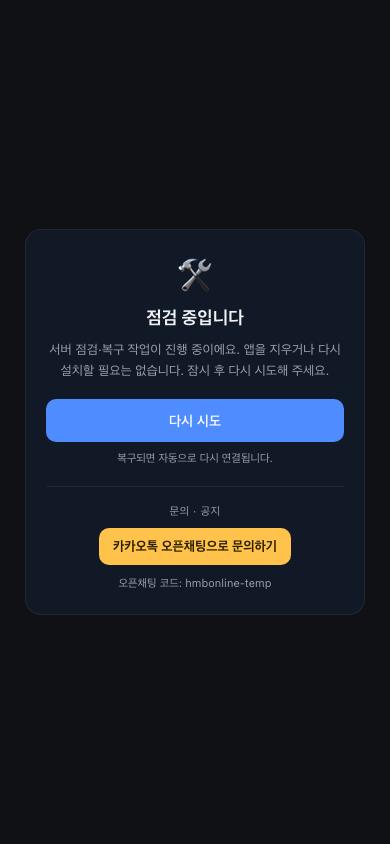
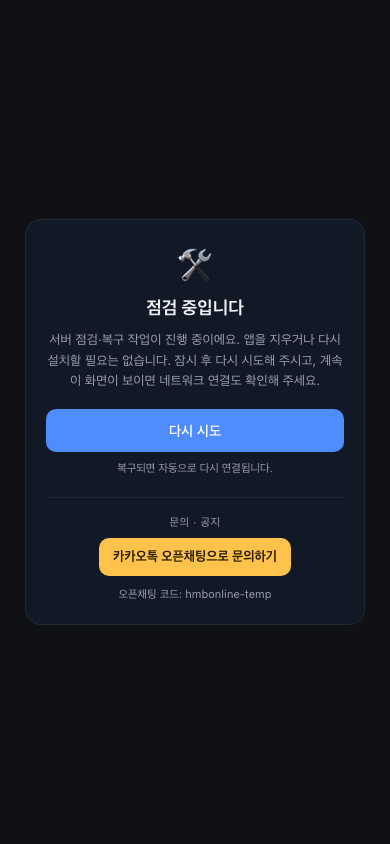
[Spider] test(477): 2R — 패널 반박 수습 (로그인 후 경로 · raw 변이체 로그 · 캡처 DOM 단언)
AC4 스켑틱 패널 1회차 FAIL(2/3). 세 반박 중 둘을 받고, 하나는 반증하되 재발을 막는 쪽으로 고쳤다.

- S2(edge_case, 타당): e2e 5건이 전부 /login 이었다 — 게이트가 라우터 바깥이라 "구조상 같다"고
  주장할 수는 있어도 검정한 것은 아니다. 로그인 후 경로(/home)에서 죽는 케이스를 추가했다.
  프로브가 단일 카나리아인 것은 결함이 아니라 설계(부분 장애에 앱 전체를 덮지 않는다) —
  그 근거를 client.ts 주석에 남겼다.
- S3 ①(evidence_integrity, 타당): 변이체 킬 로그가 손으로 쓴 요약이었다 → raw 출력으로 교체.
  이제 4 failed / 1 passed(오탐 가드만 생존)가 그대로 찍힌다.
- S3 ②(부정확): "캡처 PNG 한글 깨짐"은 같은 파일을 열면 재현되지 않는다(관측자 오류). 다만
  판정이 사람 눈에 달려 있는 것 자체가 약점이라 **DOM 텍스트 단언**으로 옮겼다 — 캡처는 이제
  그 단언의 그림 버전이다.
- decided: 안내 문구에 네트워크 확인 한 줄 추가. 우리는 백엔드 다운과 유저 오프라인을 구분하지
  못하고(navigator.onLine 신뢰도 낮아 기각), 구분 못 하는 것을 단정 안내하면 오안내다.

게이트: unit 15/15 · e2e 5/5 · 변이체 킬 4 red/1 green · capture ✅ · apps/web build ✅

Changed region(s): [[0.1231, 0.2773, 0.8923, 0.7085]]

diff --git a/apps/web/e2e/p477-capture.capture.ts b/apps/web/e2e/p477-capture.capture.ts
@@ -18,13 +18,31 @@ async function killBackend(page: Page) {
   await page.route((url) => url.pathname.startsWith("/api/"), (route) => route.abort("connectionrefused"));
 }
 
+/**
+ * 화면에 실제로 실려야 하는 글자. **캡처를 눈으로 읽어 판정하지 않기 위해** 여기 박는다 —
+ * 독립 검증에서 "PNG 의 한글이 깨졌다"(실제로는 정상)는 관측자 오류가 한 번 나왔고, 그 논쟁은
+ * 이미지 판독에 기대는 한 계속 재발한다. 이제 답은 DOM 이 준다.
+ */
+const MUST_RENDER = [
+  "점검 중입니다",
+  "다시 시도",
+  "카카오톡 오픈채팅으로 문의하기",
+  "오픈채팅 코드",
+] as const;
+
 test("캡처: 점검 안내 화면 (모바일·데스크탑)", async ({ page }) => {
   await killBackend(page);
 
   for (const [label, vp] of [["390", PHONE], ["desktop", DESKTOP]] as const) {
     await page.setViewportSize(vp);
     await page.goto("/login");
-    await expect(page.getByTestId("maintenance-screen")).toBeVisible({ timeout: 30_000 });
+    const screen = page.getByTestId("maintenance-screen");
+    await expect(screen).toBeVisible({ timeout: 30_000 });
+
+    // 찍기 전에 "찍히는 내용"을 확정한다 — 캡처는 이 단언의 그림 버전일 뿐이다.
+    const text = (await screen.innerText()).replace(/\s+/g, " ");
+    for (const phrase of MUST_RENDER) expect(text, `[${label}] 누락: ${phrase}`).toContain(phrase);
+
     await page.screenshot({ path: `${SHOTS}p477-maintenance-${label}.png`, fullPage: false });
   }
 });

diff --git a/apps/web/src/api/client.ts b/apps/web/src/api/client.ts
@@ -212,6 +212,12 @@ async function refreshRuntimeConfig(): Promise<boolean> {
  *
  * 대상은 `/api/config` — 공개(세션 중립) 경로라 미로그인 상태에서도 안전하고, 401 이 와도
  * 세션을 건드리지 않는다(SESSION_NEUTRAL_PATHS).
+ *
+ * ⚠ **단일 카나리아인 것은 의도다.** "엔드포인트 하나가 죽었는데 카나리아가 살아 있으면 점검
+ * 화면이 안 뜬다"는 결함이 아니라 이 설계의 목적이다 — 부분 장애(그 화면만 에러)에 앱 전체를
+ * 덮으면 멀쩡한 기능까지 못 쓰게 만든다. 이 화면이 대신하는 것은 **전면 장애**뿐이고, 개별
+ * 요청 실패는 각 화면의 에러 처리가 계속 맡는다. 반대 방향(카나리아만 죽음)은 확인 프로브가
+ * 실패하므로 점검으로 뜨는데, 그건 부트스트랩 config 를 못 받는 상태 = 실제로 앱이 못 뜬다.
  */
 const HEALTH_PROBE_TIMEOUT_MS = 5000;
 /** 이 상태코드는 "백엔드가 죽었다" 다 — 앱 버그가 아니라 게이트웨이가 오리진에 못 닿은 것. */

diff --git a/apps/web/src/common/MaintenanceScreen.tsx b/apps/web/src/common/MaintenanceScreen.tsx
@@ -24,9 +24,12 @@ export function MaintenanceScreen({
           🛠
         </div>
         <h1 className={styles.title}>점검 중입니다</h1>
+        {/* ⚠ 마지막 문장은 장식이 아니다 — 우리는 "백엔드가 죽었다"와 "유저 wifi 가 끊겼다"를
+            구분하지 못한다(구분 수단인 navigator.onLine 은 신뢰도가 낮다). 구분 못 하는 것을
+            단정적으로 안내하면 오프라인 유저에게 거짓말이 된다. */}
         <p className={styles.text}>
           서버 점검·복구 작업이 진행 중이에요. 앱을 지우거나 다시 설치할 필요는 없습니다.
-          잠시 후 다시 시도해 주세요.
+          잠시 후 다시 시도해 주시고, 계속 이 화면이 보이면 네트워크 연결도 확인해 주세요.
         </p>
 
         <button
